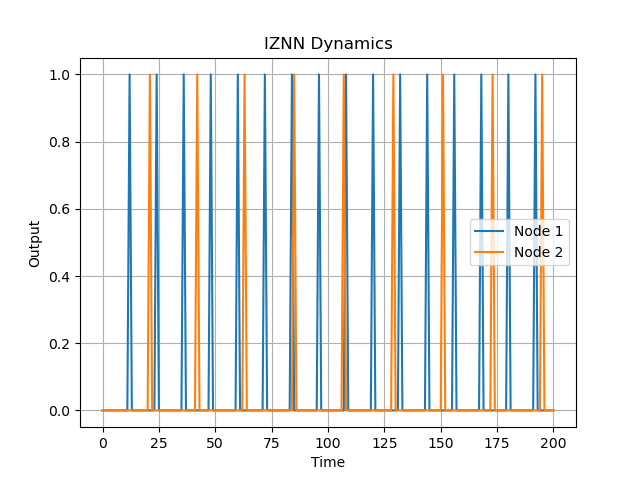
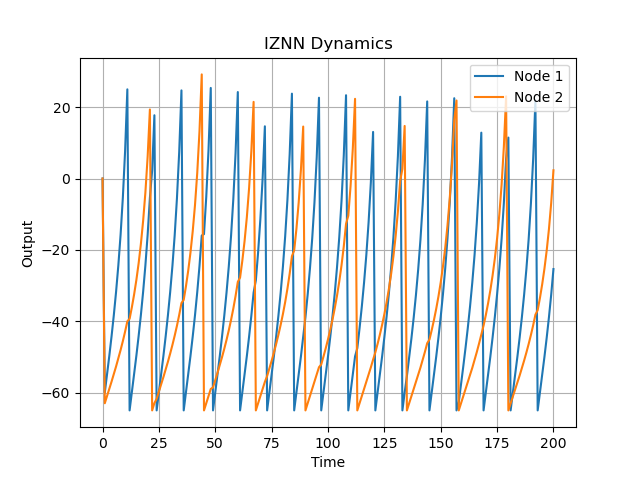
Added event-driven advance function to the iznn module

diff --git a/ctneat/iznn/__init__.py b/ctneat/iznn/__init__.py
@@ -341,7 +341,7 @@ class IZNN(object):
         Advances the simulation by the given time step in milliseconds.
         Args:
             dt_msec (float): The time step in milliseconds.
-            method (str): The integration method to use. If not specified, defaults to manually written RK4.
+            method (str): The integration method to use. If None, uses manually written RK4, otherwise defaults to SciPy's LSODA.
                 If specified, uses SciPy's solve_ivp with the given method.
                 Valid methods are listed in the SciPy documentation for solve_ivp
                 (https://docs.scipy.org/doc/scipy/reference/generated/scipy.integrate.solve_ivp.html).
@@ -383,7 +383,7 @@ class IZNN(object):
                 if ineuron is not None:
                     ivalue = ineuron.fired
                 else:
-                    ivalue = self.input_values[i]
+                    ivalue = self.input_values.get(i, 0.0)
 
                 n.current += ivalue * w
 
@@ -409,49 +409,115 @@ class IZNN(object):
         else:
             return out_neurons_firing
 
-    def advance_event_driven(self, dt_msec: float):
+    def advance_event_driven(self, dt_msec: float, method: str = 'LSODA', ret: Optional[Union[List[str], str]] = None) -> Union[List[float], List[List[float]]]:
         """
-        Advances the simulation using a true event-driven approach with a global clock.
+        Advances the simulation by at most dt_msec using a true event-driven approach.
+
+        The simulation advances to the time of the earliest spike event in the network,
+        or by the full dt_msec if no spikes occur in that interval. This ensures that
+        spike timing is captured with high precision.
+
+        Args:
+            dt_msec (float): The maximum time step to advance in milliseconds.
+            method (str): The integration method to use. If None, uses manually written RK4, otherwise defaults to SciPy's LSODA.
+                If specified, uses SciPy's solve_ivp with the given method.
+                Valid methods are listed in the SciPy documentation for solve_ivp
+                (https://docs.scipy.org/doc/scipy/reference/generated/scipy.integrate.solve_ivp.html).
+                And here is a summary of available methods:
+                    - 'RK45' (Default): An adaptive Runge-Kutta method of order 5(4). It's a great general-purpose choice and a good starting point.
+                    - 'RK23': A lower-order adaptive Runge-Kutta method. Faster but less accurate than RK45.
+                    - 'DOP853': A high-order (8th) adaptive Runge-Kutta method for when you need very high precision.
+                    - 'LSODA': This is a particularly important one for spiking neurons. It's a solver that automatically switches between methods for non-stiff and stiff problems. A "stiff" ODE is one where some parts of the solution change very rapidly while others change slowly (like the membrane potential during a spike!). LSODA is often very efficient and stable for these kinds of systems.
+                    - 'BDF' and 'Radau': Other excellent methods for stiff problems.
+            ret (list(str) or str or None): Specifies what to return.
+                If a list of strings, returns a list of lists, where each inner list corresponds to
+                the requested attribute for all output neurons.
+                If a single string, returns a list corresponding to the requested attribute for all output neurons.
+                If None, returns a list of firing states for all output neurons.
+                Valid strings are:
+                    'fired' - returns the firing states (1.0 if fired, 0.0 otherwise)
+                    'voltages' - returns the membrane potentials (in millivolts)
+                    'recovery' - returns the recovery variables
+                    'all' - returns a list of lists: [fired states, voltages, recovery variables]
+        
+        Returns:
+            A list or a list of lists as specified by the 'ret' parameter, representing
+            the state of the output neurons after the time step.
+        Raises:
+            ValueError: If an invalid integration method is specified.
         """
+        if method not in ['RK45', 'RK23', 'DOP853', 'LSODA', 'BDF', 'Radau']:
+            raise ValueError(f"Invalid integration method '{method}'. Valid methods are 'RK45', 'RK23', 'DOP853', 'LSODA', 'BDF', 'Radau'.")
+
+        # Calculate input currents for all neurons based on the current state.
+        for n in self.neurons.values():
+            n.current = n.bias
+            for i, w in n.inputs:
+                ineuron = self.neurons.get(i)
+                if ineuron is not None:
+                    # Input from another neuron is based on its 'fired' state from the previous step.
+                    ivalue = ineuron.fired
+                else:
+                    # Input from an external source.
+                    ivalue = self.input_values.get(i, 0.0)
+
+                n.current += ivalue * w
+
+        # Poll all neurons to get their solutions and potential spike times.
+        # This step does NOT change the state of any neuron.
         solutions = {}
         event_times = {}
-
-        # Poll all neurons for their solutions and next spike times
         for nid, n in self.neurons.items():
-            # You would also update n.current here based on any delivered spikes
-            sol, spike_time = n.solve_for_interval(dt_msec)
+            sol, spike_time = n.solve_for_interval(dt_msec, method=method)
             if sol:
                 solutions[nid] = sol
                 if spike_time is not None:
                     event_times[nid] = spike_time
         
-        # Find the earliest event time in the network
+        # Determine the actual time to advance the simulation.
+        # This is the time of the earliest spike, or the full dt_msec if no spikes occur.
         if not event_times:
-            min_event_time = dt_msec
+            time_to_advance = dt_msec
         else:
             min_event_time = min(event_times.values())
+            time_to_advance = min(min_event_time, dt_msec)
 
-        # If the earliest event is later than our step, just step fully.
-        time_to_advance = min(min_event_time, dt_msec)
-
-        # Update all neuron states to the new global time
+        # Update all neuron states to the new global time.
+        # We use the 'dense_output' from the solution to find the precise state at 'time_to_advance'.
         for nid, n in self.neurons.items():
             if nid in solutions:
-                # Use the dense_output to get the state at the precise time
                 new_state = solutions[nid].sol(time_to_advance)
                 n.v, n.u = new_state
-                n.fired = 0.0
+            # Reset the 'fired' flag for all neurons before processing the new spikes.
+            n.fired = 0.0
 
-        # Reset the neurons that fired at this exact moment
+        # Process the spike(s): reset the neuron(s) that fired at this exact moment.
         for nid, t in event_times.items():
-            if abs(t - time_to_advance) < 1e-9: # Compare with tolerance
+            # Use a small tolerance for floating point comparison.
+            if abs(t - time_to_advance) < 1e-9: 
                 n = self.neurons[nid]
                 n.fired = 1.0
                 n.v = n.c
                 n.u += n.d
+                # FUTURE TODO: This is where you would add the spike to a delivery
+                # queue if implementing axonal propagation delays.
 
-        # Advance the global clock
+        # Advance the global clock.
         self.time_ms += time_to_advance
+
+        # Return the requested output values, consistent with the other advance method.
+        out_neurons_firing = [self.neurons[i].fired for i in self.outputs]
+        out_neurons_voltages = [self.neurons[i].v for i in self.outputs]
+        out_neurons_recovery = [self.neurons[i].u for i in self.outputs]
+        ret_keys = {'fired': out_neurons_firing, 'voltages': out_neurons_voltages, 'recovery': out_neurons_recovery}
+        if isinstance(ret, list):
+            return [ret_keys[k] for k in ret if k in ret_keys]
+        elif isinstance(ret, str):
+            if ret == 'all':
+                return [out_neurons_firing, out_neurons_voltages, out_neurons_recovery]
+            return ret_keys.get(ret, [])
+        else:
+            return out_neurons_firing
 
     @staticmethod
     def create(genome, config):

diff --git a/examples/neuron-demo/iznn/iznn-network.py b/examples/neuron-demo/iznn/iznn-network.py
@@ -29,7 +29,7 @@ net.set_inputs([init0])
 times = [0.0]
 outputs = [[n1.fired, n2.fired]]
 for i in range(200):
-    output = net.advance(0.05, method='LSODA', ret='voltages', events=True)
+    output = net.advance_event_driven(0.05, ret='voltages')
     times.append(net.time_ms)
     outputs.append(output)
     
